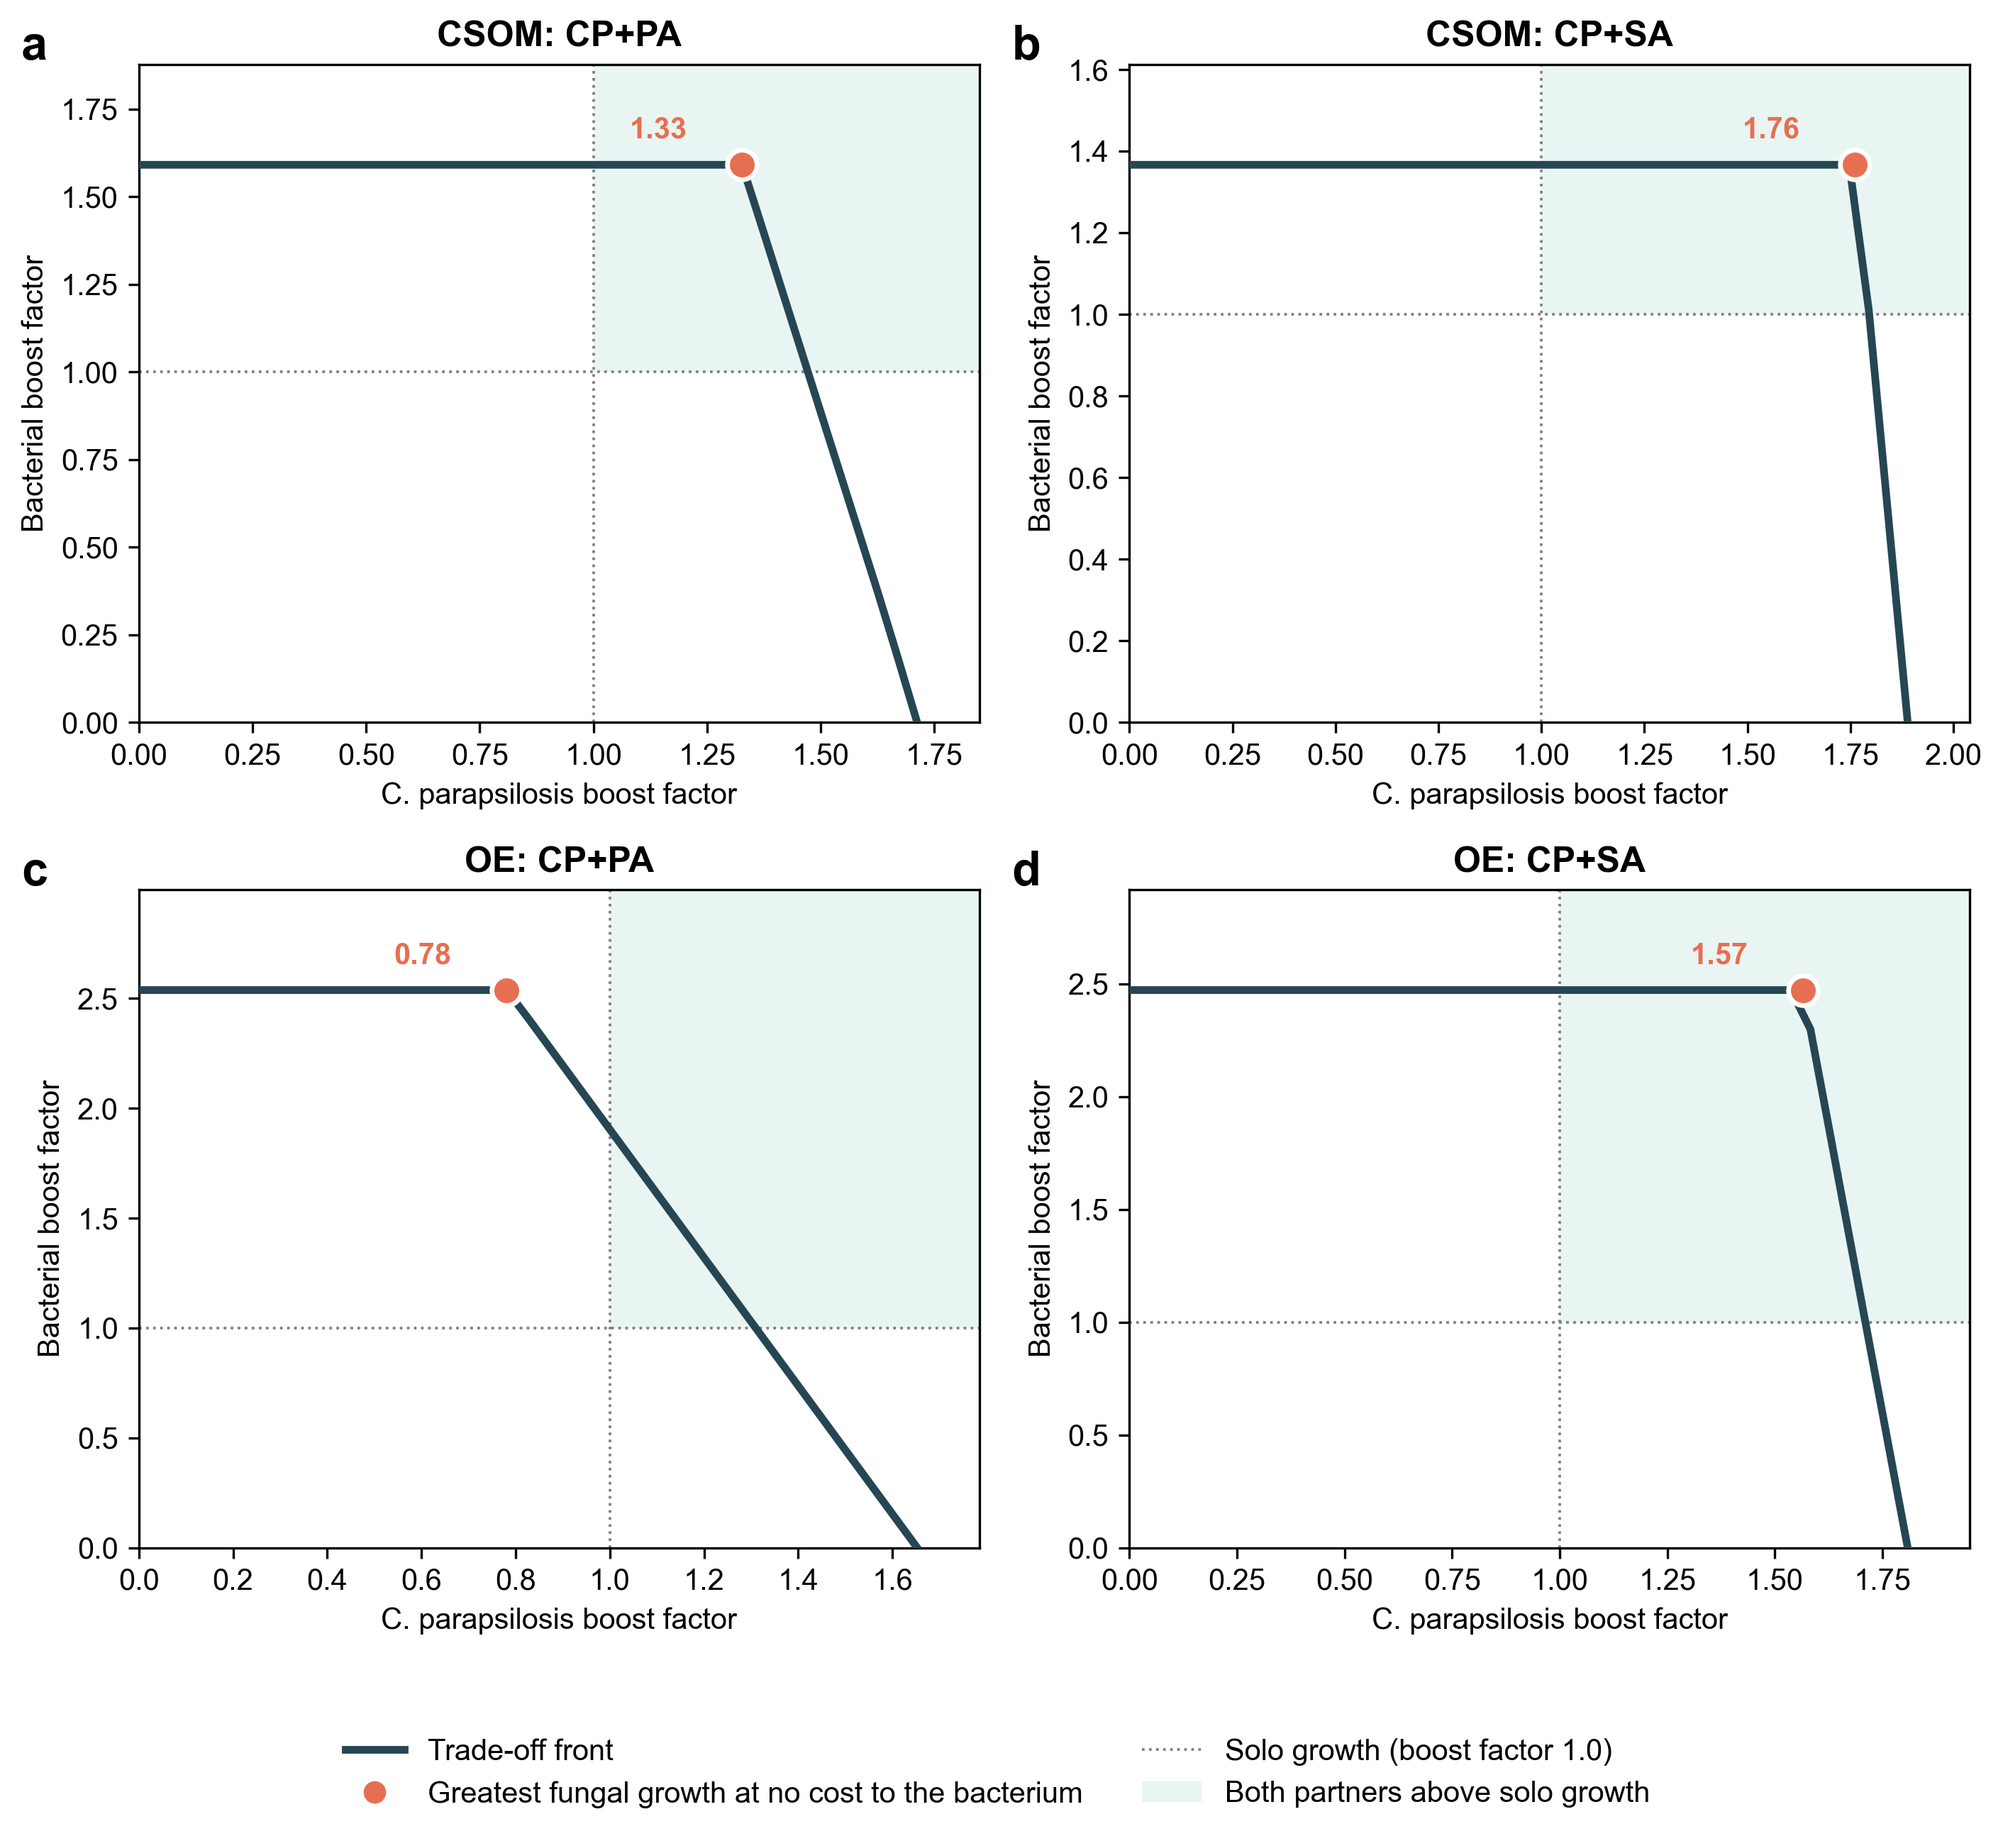
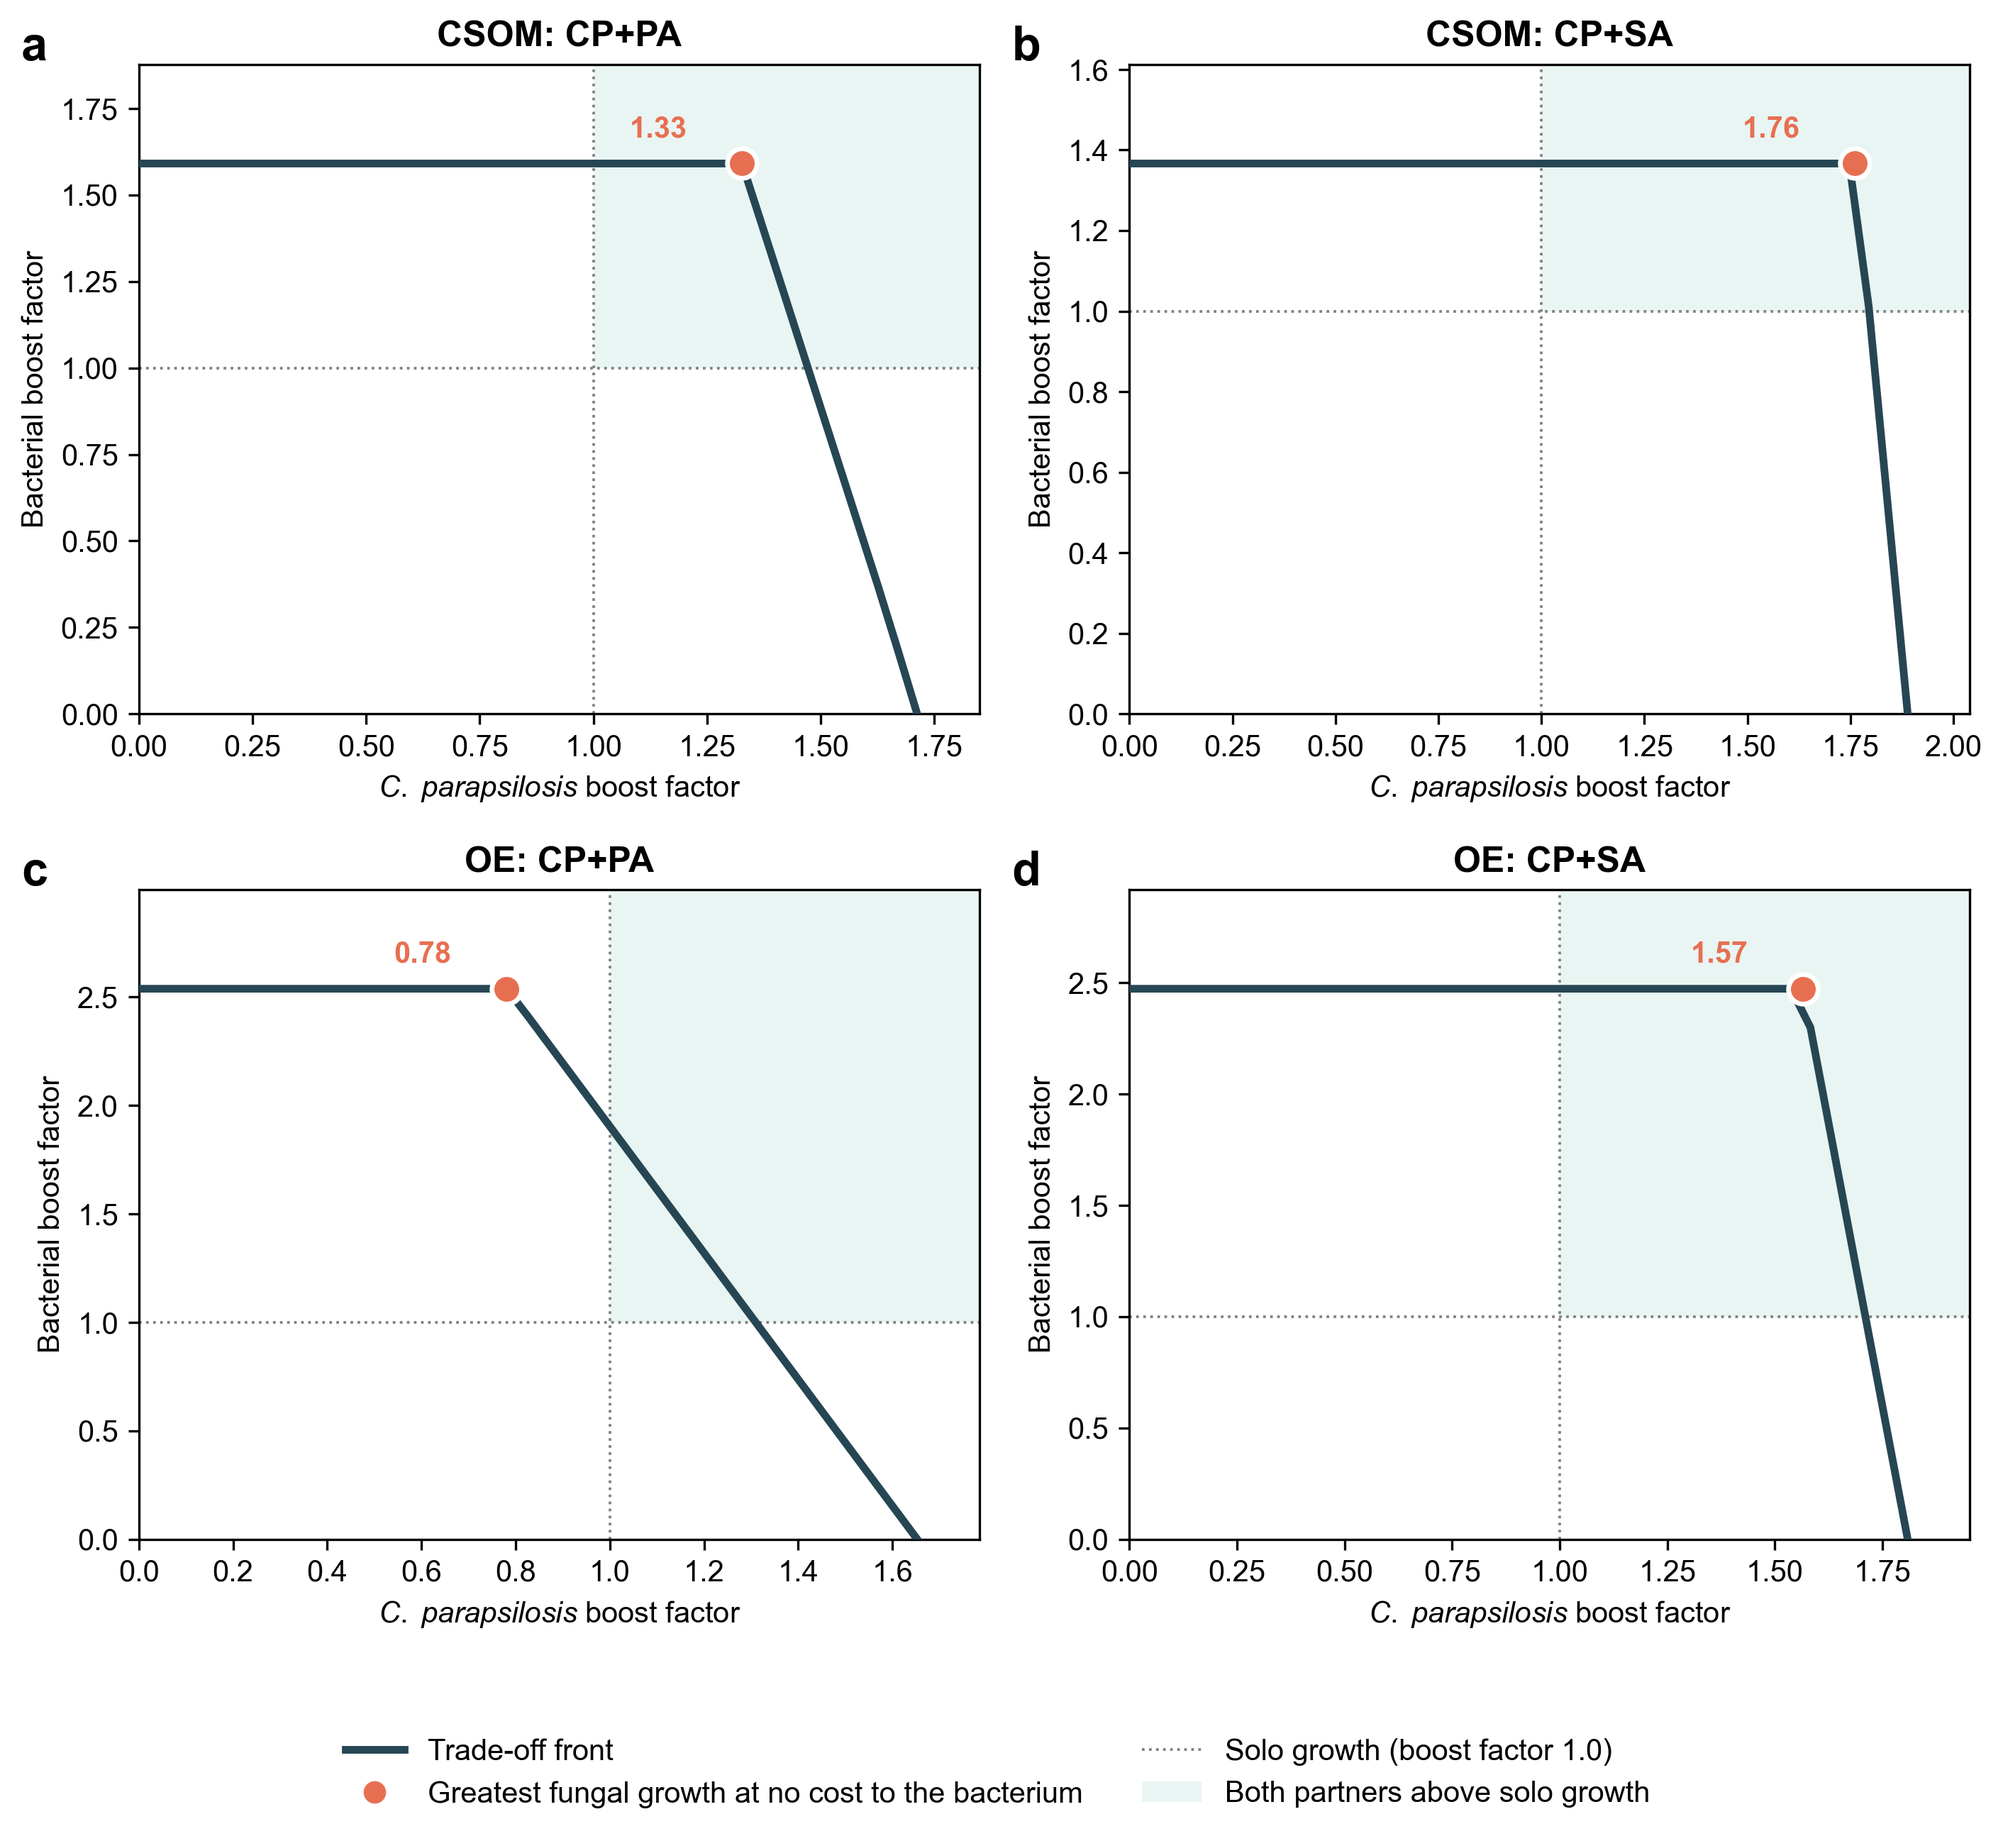
Italicize the species name on the Figure S3 axis

diff --git a/scripts/28_pareto_summary.py b/scripts/28_pareto_summary.py
@@ -9,6 +9,8 @@ from matplotlib.patches import Patch
 ROOT = Path(__file__).resolve().parent.parent
 sys.path.insert(0, str(ROOT/'src'))
 import style  # noqa: F401
+plt.rcParams.update({'mathtext.fontset': 'custom', 'mathtext.rm': 'Arial',
+                     'mathtext.it': 'Arial:italic', 'mathtext.bf': 'Arial:bold'})
 RESULTS, FIGS = ROOT/'results', ROOT/'figures'
 FIGS.mkdir(exist_ok=True)
 
@@ -65,7 +67,7 @@ for i, env in enumerate(ENVS):
         ax.text(-0.14, 1.06, 'abcd'[i*2+j], transform=ax.transAxes,
                 fontsize=16, fontweight='bold', va='top', ha='left')
         ax.set_title(f'{env}: {pair}', fontsize=12, fontweight='bold')
-        ax.set_xlabel('C. parapsilosis boost factor')
+        ax.set_xlabel(r'$\it{C.\ parapsilosis}$ boost factor')
         ax.set_ylabel('Bacterial boost factor')
         ax.set_xlim(0, xmax); ax.set_ylim(0, ymax)
 
